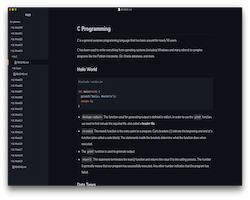
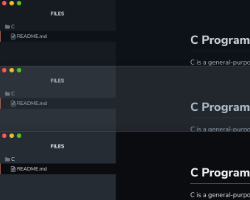
add two new sub-themes to GitHub Night

diff --git a/_posts/theme/2021-01-14-Github-Night.md b/_posts/theme/2021-01-14-Github-Night.md
@@ -1,6 +1,6 @@
 ---
 layout: theme
-title: Github Night
+title: GitHub Night
 category: theme
 homepage: https://github.com/kinoute/typora-github-night-theme
 download: https://github.com/kinoute/typora-github-night-theme/releases/latest
@@ -13,21 +13,27 @@ typora-copy-images-to: ../../media/theme/github-night
 
 ---
 
-# Github Night Theme for Typora
+# GitHub Night Themes for Typora
 
-A dark theme for [Typora](https://typora.io), a multi-platform Markdown Editor, that reproduces the new GitHub Dark Theme, recently deployed on their website.
+Three dark themes that reproduces the new GitHub Dark Themes, recently deployed on their website:
 
-![](../../media/theme/github-night/standard.png)
+* Github Night *Default Dark* ;
+* GitHub Night *Dark dimmed* ;
+* GitHub Night *High Contrast*.
+
+![](../../media/theme/github-night/montage-themes.png)
 
 ## Installation
 
 1. Download the zipped project package or the [latest stable release](https://github.com/kinoute/typora-github-night-theme/releases).
 2. Launch Typora and open `Preferences` from the app menu.
 3. Go to the `Appearance` tab, and choose `Open Theme Folder`.
-4. Copy the `github-night.css` file and `github-night` folder to your Typora theme library.
-5. Launch or restart Typora and choose `Github Night` from the theme menu.
+4. Copy all the `github-night*.css` files and the `github-night` folder to your Typora theme library.
+5. Launch or restart Typora and choose one of the `Github Night` themes from the theme menu.
 
 ## Screenshots
+
+All the screenshots below feature the default GitHub Night Dark Theme, "GitHub Night".
 
 ### Articles
 
@@ -61,13 +67,14 @@ I made other themes for different applications. Here there are:
 
 - Sublime Text theme: https://github.com/kinoute/hivacruz-sublime-theme
 - VSCode Theme: https://github.com/kinoute/vscode-hivacruz-theme
+- Vim Theme: https://github.com/kinoute/vim-hivacruz-theme
 - iTerm2: https://github.com/kinoute/hivacruz-itermcolors
 - Nova: https://github.com/kinoute/hivacruz-nova-theme
 
 ## Credits
 
 * Created by [Yann Defretin](https://github.com/kinoute).
-* Based on the official GitHub Dark Theme available on their website.
+* Based on the official GitHub Dark Themes available on their website.
 * The Font used is [Nunito](https://fonts.google.com/specimen/Nunito) designed by Vernon Adams.
-
+* The font used for Code Blocks is [San Francisco Mono](https://developer.apple.com/fonts/) by Apple.
 
